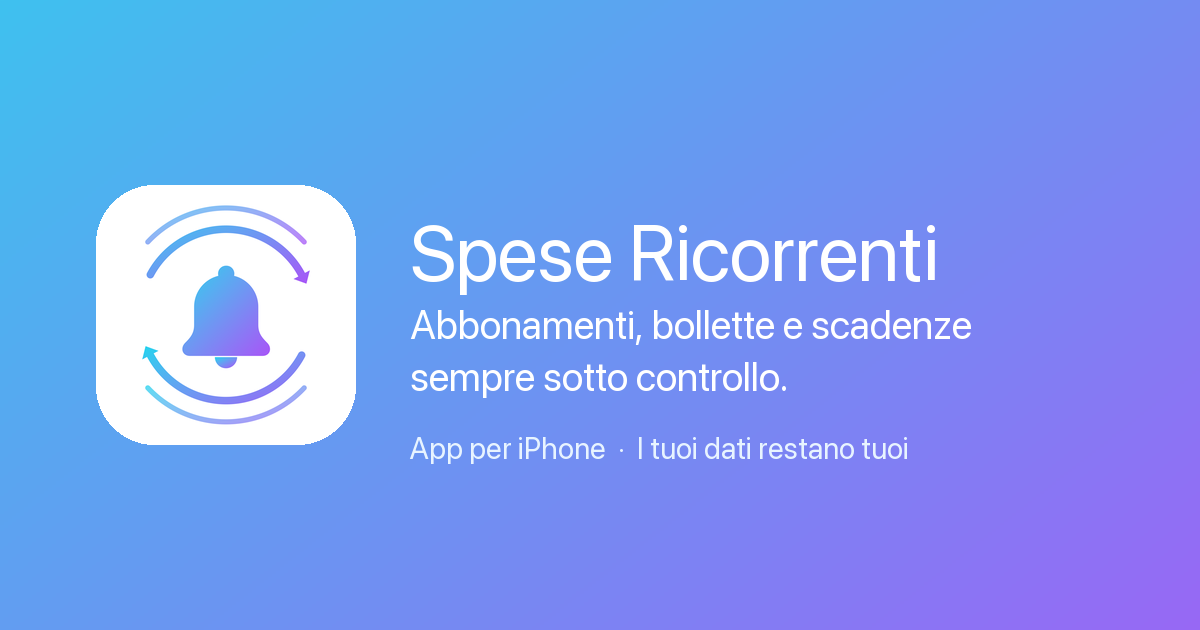
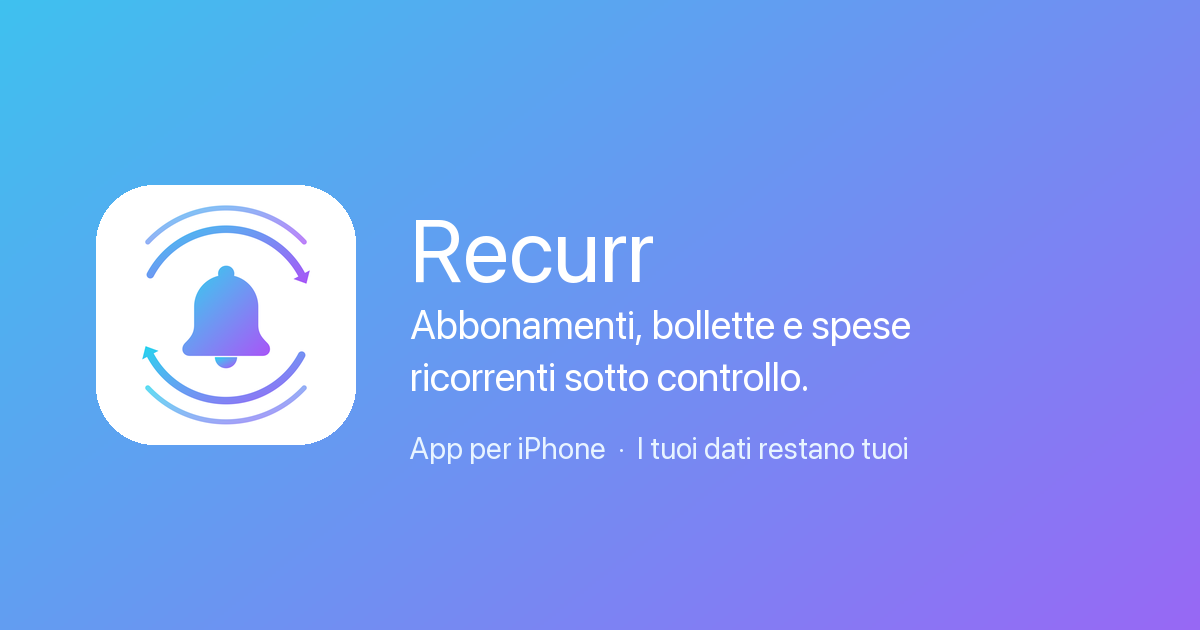
Rinomina l'app in Recurr e ripulisce la home del dominio
Rinominamento
- «Spese Ricorrenti» → «Recurr» come marchio su landing IT/EN, Privacy Policy,
  Termini, llms.txt e immagine social, rigenerata perché il nome era disegnato
  dentro il PNG
- La parola chiave minuscola «spese ricorrenti» resta dov'era: è ciò che la
  gente cerca davvero, mentre «Recurr» è un nome che nessuno digita finché non
  conosce l'app. I titoli ora contengono entrambi
- «Spese Ricorrenti» resta come alternateName nei dati strutturati, così chi
  cerca il vecchio nome trova comunque l'app
- llms.txt spiega il rinominamento e perché bundle id, container iCloud,
  entitlement RevenueCat e il percorso /spese-ricorrenti/ conservano il vecchio
  nome, così le AI non lo segnalano come incoerenza

Home del dominio
- Rimossa la card «Documenti legali», specifica di una singola app: privacy e
  termini restano raggiungibili dal footer della landing. La home torna a
  essere l'elenco delle app, pronta per le prossime

Changed region(s): [[0.3392, 0.3317, 0.8017, 0.4524], [0.3392, 0.573, 0.6783, 0.6333], [0.6783, 0.4825, 0.8325, 0.5429]]

diff --git a/spese-ricorrenti/index.html b/spese-ricorrenti/index.html
@@ -4,7 +4,7 @@
 <meta charset="utf-8">
 <meta name="viewport" content="width=device-width, initial-scale=1">
 
-<title>Spese Ricorrenti — App iPhone per abbonamenti, bollette e scadenze</title>
+<title>Recurr — App iPhone per spese ricorrenti, abbonamenti e bollette</title>
 <meta name="description" content="App iPhone per tenere sotto controllo abbonamenti, bollette, affitto e assicurazioni. Promemoria prima di ogni scadenza, totale del mese, report di risparmio. Gratis fino a 8 spese, senza account e senza pubblicità.">
 <link rel="canonical" href="https://dontknowif.github.io/spese-ricorrenti/">
 
@@ -17,19 +17,19 @@
 <meta name="robots" content="index, follow, max-image-preview:large, max-snippet:-1">
 
 <meta property="og:type" content="website">
-<meta property="og:site_name" content="Spese Ricorrenti">
+<meta property="og:site_name" content="Recurr">
 <meta property="og:locale" content="it_IT">
 <meta property="og:locale:alternate" content="en_GB">
-<meta property="og:title" content="Spese Ricorrenti — App iPhone per abbonamenti, bollette e scadenze">
+<meta property="og:title" content="Recurr — App iPhone per spese ricorrenti, abbonamenti e bollette">
 <meta property="og:description" content="Tieni sotto controllo abbonamenti, bollette e spese ricorrenti. Promemoria prima di ogni scadenza e report di risparmio. Gratis fino a 8 spese, senza account.">
 <meta property="og:url" content="https://dontknowif.github.io/spese-ricorrenti/">
 <meta property="og:image" content="https://dontknowif.github.io/spese-ricorrenti/og-image.png">
 <meta property="og:image:width" content="1200">
 <meta property="og:image:height" content="630">
-<meta property="og:image:alt" content="Icona dell'app Spese Ricorrenti accanto al nome e alla frase: abbonamenti, bollette e scadenze sempre sotto controllo.">
+<meta property="og:image:alt" content="Icona dell'app Recurr accanto al nome e alla frase: abbonamenti, bollette e scadenze sempre sotto controllo.">
 
 <meta name="twitter:card" content="summary_large_image">
-<meta name="twitter:title" content="Spese Ricorrenti — App iPhone per abbonamenti e bollette">
+<meta name="twitter:title" content="Recurr — App iPhone per abbonamenti e bollette">
 <meta name="twitter:description" content="Promemoria prima di ogni scadenza, totale del mese e report di risparmio. Gratis fino a 8 spese, senza account.">
 <meta name="twitter:image" content="https://dontknowif.github.io/spese-ricorrenti/og-image.png">
 
@@ -46,8 +46,8 @@
     {
       "@type": "MobileApplication",
       "@id": "https://dontknowif.github.io/spese-ricorrenti/#app",
-      "name": "Spese Ricorrenti",
-      "alternateName": "Recurr",
+      "name": "Recurr",
+      "alternateName": "Spese Ricorrenti",
       "applicationCategory": "FinanceApplication",
       "applicationSubCategory": "Gestione spese ricorrenti e abbonamenti",
       "operatingSystem": "iOS 17.0 o successivo",
@@ -92,7 +92,7 @@
       "@type": "WebSite",
       "@id": "https://dontknowif.github.io/spese-ricorrenti/#website",
       "url": "https://dontknowif.github.io/spese-ricorrenti/",
-      "name": "Spese Ricorrenti",
+      "name": "Recurr",
       "inLanguage": "it",
       "publisher": { "@id": "https://dontknowif.github.io/#publisher" }
     },
@@ -103,7 +103,7 @@
       "mainEntity": [
         {
           "@type": "Question",
-          "name": "Che cos'è Spese Ricorrenti?",
+          "name": "Che cos'è Recurr?",
           "acceptedAnswer": {
             "@type": "Answer",
             "text": "È un'app per iPhone che tiene traccia delle spese che si ripetono nel tempo: abbonamenti, bollette, affitto, assicurazioni, tasse, rate. Inserisci una spesa una volta sola indicando ogni quanto si ripete, e l'app calcola da sola le scadenze future, il totale di ogni mese e ti avvisa prima di ogni pagamento."
@@ -122,7 +122,7 @@
           "name": "L'app si collega al mio conto bancario?",
           "acceptedAnswer": {
             "@type": "Answer",
-            "text": "No. Spese Ricorrenti non si collega a banche, carte o conti correnti, non effettua pagamenti e non disdice abbonamenti al posto tuo. È uno strumento di annotazione: sei tu a inserire le spese, e per questo non deve chiederti alcuna credenziale bancaria."
+            "text": "No. Recurr non si collega a banche, carte o conti correnti, non effettua pagamenti e non disdice abbonamenti al posto tuo. È uno strumento di annotazione: sei tu a inserire le spese, e per questo non deve chiederti alcuna credenziale bancaria."
           }
         },
         {
@@ -184,7 +184,7 @@
 
 <nav class="nav">
   <div class="nav-inner">
-    <a class="brand" href="./"><span class="dot"></span> Spese Ricorrenti</a>
+    <a class="brand" href="./"><span class="dot"></span> Recurr</a>
     <div class="nav-links">
       <a href="#funzioni">Funzioni</a>
       <a href="#risparmio">Risparmio</a>
@@ -208,7 +208,7 @@
       <p class="eyebrow">Le tue spese restano sul tuo iPhone</p>
       <h1>Abbonamenti e bollette,<br><span class="grad">sempre sotto controllo.</span></h1>
       <p class="hero-sub">
-        Inserisci una spesa una volta sola. Spese Ricorrenti calcola tutte le scadenze future,
+        Inserisci una spesa una volta sola. Recurr calcola tutte le scadenze future,
         ti dice quanto spendi ogni mese e ti avvisa <strong>prima</strong> che ti arrivi l'addebito.
       </p>
       <div class="hero-actions">
@@ -521,7 +521,7 @@
 
     <div class="faq">
       <details open>
-        <summary>Che cos'è Spese Ricorrenti?</summary>
+        <summary>Che cos'è Recurr?</summary>
         <p>È un'app per iPhone che tiene traccia delle spese che si ripetono nel tempo: abbonamenti, bollette, affitto, assicurazioni, tasse, rate. Inserisci una spesa una volta sola indicando ogni quanto si ripete, e l'app calcola da sola le scadenze future, il totale di ogni mese e ti avvisa prima di ogni pagamento.</p>
       </details>
 
@@ -532,7 +532,7 @@
 
       <details>
         <summary>L'app si collega al mio conto bancario?</summary>
-        <p>No. Spese Ricorrenti non si collega a banche, carte o conti correnti, non effettua pagamenti e non disdice abbonamenti al posto tuo. È uno strumento di annotazione: sei tu a inserire le spese, e per questo non deve chiederti alcuna credenziale bancaria.</p>
+        <p>No. Recurr non si collega a banche, carte o conti correnti, non effettua pagamenti e non disdice abbonamenti al posto tuo. È uno strumento di annotazione: sei tu a inserire le spese, e per questo non deve chiederti alcuna credenziale bancaria.</p>
       </details>
 
       <details>

diff --git a/spese-ricorrenti/en/index.html b/spese-ricorrenti/en/index.html
@@ -4,7 +4,7 @@
 <meta charset="utf-8">
 <meta name="viewport" content="width=device-width, initial-scale=1">
 
-<title>Spese Ricorrenti — iPhone app for subscriptions, bills and due dates</title>
+<title>Recurr — iPhone app for recurring expenses, subscriptions and bills</title>
 <meta name="description" content="iPhone app that keeps track of subscriptions, bills, rent and insurance. Reminders before every due date, monthly totals and a savings report. Free for up to 8 expenses, no account, no ads.">
 <link rel="canonical" href="https://dontknowif.github.io/spese-ricorrenti/en/">
 
@@ -17,19 +17,19 @@
 <meta name="robots" content="index, follow, max-image-preview:large, max-snippet:-1">
 
 <meta property="og:type" content="website">
-<meta property="og:site_name" content="Spese Ricorrenti">
+<meta property="og:site_name" content="Recurr">
 <meta property="og:locale" content="en_GB">
 <meta property="og:locale:alternate" content="it_IT">
-<meta property="og:title" content="Spese Ricorrenti — iPhone app for subscriptions, bills and due dates">
+<meta property="og:title" content="Recurr — iPhone app for recurring expenses, subscriptions and bills">
 <meta property="og:description" content="Keep subscriptions, bills and recurring expenses under control. Reminders before every due date and a savings report. Free for up to 8 expenses, no account.">
 <meta property="og:url" content="https://dontknowif.github.io/spese-ricorrenti/en/">
 <meta property="og:image" content="https://dontknowif.github.io/spese-ricorrenti/og-image.png">
 <meta property="og:image:width" content="1200">
 <meta property="og:image:height" content="630">
-<meta property="og:image:alt" content="The Spese Ricorrenti app icon next to the app name and the line: subscriptions, bills and due dates always under control.">
+<meta property="og:image:alt" content="The Recurr app icon next to the app name and the line: subscriptions, bills and due dates always under control.">
 
 <meta name="twitter:card" content="summary_large_image">
-<meta name="twitter:title" content="Spese Ricorrenti — iPhone app for subscriptions and bills">
+<meta name="twitter:title" content="Recurr — iPhone app for subscriptions and bills">
 <meta name="twitter:description" content="Reminders before every due date, monthly totals and a savings report. Free for up to 8 expenses, no account.">
 <meta name="twitter:image" content="https://dontknowif.github.io/spese-ricorrenti/og-image.png">
 
@@ -46,8 +46,8 @@
     {
       "@type": "MobileApplication",
       "@id": "https://dontknowif.github.io/spese-ricorrenti/#app",
-      "name": "Spese Ricorrenti",
-      "alternateName": "Recurr",
+      "name": "Recurr",
+      "alternateName": "Spese Ricorrenti",
       "applicationCategory": "FinanceApplication",
       "applicationSubCategory": "Recurring expense and subscription tracker",
       "operatingSystem": "iOS 17.0 or later",
@@ -92,7 +92,7 @@
       "@type": "WebSite",
       "@id": "https://dontknowif.github.io/spese-ricorrenti/en/#website",
       "url": "https://dontknowif.github.io/spese-ricorrenti/en/",
-      "name": "Spese Ricorrenti",
+      "name": "Recurr",
       "inLanguage": "en",
       "publisher": { "@id": "https://dontknowif.github.io/#publisher" }
     },
@@ -103,7 +103,7 @@
       "mainEntity": [
         {
           "@type": "Question",
-          "name": "What is Spese Ricorrenti?",
+          "name": "What is Recurr?",
           "acceptedAnswer": {
             "@type": "Answer",
             "text": "It is an iPhone app that keeps track of expenses that repeat over time: subscriptions, bills, rent, insurance, taxes and instalments. You enter an expense once, stating how often it repeats, and the app works out all future due dates, the total for each month, and warns you before every payment."
@@ -122,7 +122,7 @@
           "name": "Does the app connect to my bank account?",
           "acceptedAnswer": {
             "@type": "Answer",
-            "text": "No. Spese Ricorrenti does not connect to banks, cards or current accounts, does not make payments and does not cancel subscriptions on your behalf. It is a note-keeping tool: you enter the expenses yourself, which is why it never needs to ask for banking credentials."
+            "text": "No. Recurr does not connect to banks, cards or current accounts, does not make payments and does not cancel subscriptions on your behalf. It is a note-keeping tool: you enter the expenses yourself, which is why it never needs to ask for banking credentials."
           }
         },
         {
@@ -184,7 +184,7 @@
 
 <nav class="nav">
   <div class="nav-inner">
-    <a class="brand" href="./"><span class="dot"></span> Spese Ricorrenti</a>
+    <a class="brand" href="./"><span class="dot"></span> Recurr</a>
     <div class="nav-links">
       <a href="#features">Features</a>
       <a href="#savings">Savings</a>
@@ -208,7 +208,7 @@
       <p class="eyebrow">Your expenses stay on your iPhone</p>
       <h1>Subscriptions and bills,<br><span class="grad">finally under control.</span></h1>
       <p class="hero-sub">
-        Enter an expense once. Spese Ricorrenti works out every future due date,
+        Enter an expense once. Recurr works out every future due date,
         tells you what you spend each month, and warns you <strong>before</strong> the charge lands.
       </p>
       <div class="hero-actions">
@@ -521,7 +521,7 @@
 
     <div class="faq">
       <details open>
-        <summary>What is Spese Ricorrenti?</summary>
+        <summary>What is Recurr?</summary>
         <p>It is an iPhone app that keeps track of expenses that repeat over time: subscriptions, bills, rent, insurance, taxes and instalments. You enter an expense once, stating how often it repeats, and the app works out all future due dates, the total for each month, and warns you before every payment.</p>
       </details>
 
@@ -532,7 +532,7 @@
 
       <details>
         <summary>Does the app connect to my bank account?</summary>
-        <p>No. Spese Ricorrenti does not connect to banks, cards or current accounts, does not make payments and does not cancel subscriptions on your behalf. It is a note-keeping tool: you enter the expenses yourself, which is why it never needs to ask for banking credentials.</p>
+        <p>No. Recurr does not connect to banks, cards or current accounts, does not make payments and does not cancel subscriptions on your behalf. It is a note-keeping tool: you enter the expenses yourself, which is why it never needs to ask for banking credentials.</p>
       </details>
 
       <details>

diff --git a/spese-ricorrenti/terms.html b/spese-ricorrenti/terms.html
@@ -3,14 +3,14 @@
 <head>
 <meta charset="utf-8">
 <meta name="viewport" content="width=device-width, initial-scale=1">
-<title>Termini e condizioni — Spese Ricorrenti</title>
+<title>Termini e condizioni — Recurr</title>
 <link rel="stylesheet" href="style.css">
 </head>
 <body>
 <div class="wrap">
 
 <header class="top">
-  <a class="brand" href="index.html"><span class="dot"></span> Spese Ricorrenti</a>
+  <a class="brand" href="index.html"><span class="dot"></span> Recurr</a>
   <div class="langs">
     <button type="button" data-set-lang="it" aria-pressed="true">Italiano</button>
     <button type="button" data-set-lang="en" aria-pressed="false">English</button>
@@ -21,7 +21,7 @@
 <div data-lang="it">
 
 <h1>Termini e condizioni d'uso</h1>
-<p class="lede">Le regole per l'utilizzo dell'app <strong>Spese Ricorrenti</strong>.</p>
+<p class="lede">Le regole per l'utilizzo dell'app <strong>Recurr</strong>.</p>
 <p class="updated">Ultimo aggiornamento: 27 agosto 2026 · Versione app: 1.0</p>
 
 <div class="card tldr">
@@ -36,7 +36,7 @@
 
 <h2>1. Accettazione</h2>
 <p>
-  Scaricando e usando Spese Ricorrenti (l'"app") accetti questi termini. Se non li accetti, non usare l'app.
+  Scaricando e usando Recurr (l'"app") accetti questi termini. Se non li accetti, non usare l'app.
   L'app è sviluppata e distribuita da <strong>Rocco Barletta</strong> (di seguito "noi").
 </p>
 
@@ -97,7 +97,7 @@
 
 <h2>5. Natura dell'app: nessuna consulenza finanziaria</h2>
 <p>
-  Spese Ricorrenti è uno strumento per <strong>annotare manualmente</strong> spese ricorrenti e visualizzarne
+  Recurr è uno strumento per <strong>annotare manualmente</strong> spese ricorrenti e visualizzarne
   l'andamento. Non è un servizio di pagamento, non è collegato ai tuoi conti bancari o alle tue carte, non
   effettua pagamenti e non disdice abbonamenti al posto tuo.
 </p>
@@ -195,7 +195,7 @@
 <div data-lang="en">
 
 <h1>Terms &amp; Conditions</h1>
-<p class="lede">The rules for using the <strong>Spese Ricorrenti</strong> app.</p>
+<p class="lede">The rules for using the <strong>Recurr</strong> app.</p>
 <p class="updated">Last updated: 27 August 2026 · App version: 1.0</p>
 
 <div class="card tldr">
@@ -210,7 +210,7 @@
 
 <h2>1. Acceptance</h2>
 <p>
-  By downloading and using Spese Ricorrenti (the "app") you accept these terms. If you do not accept them,
+  By downloading and using Recurr (the "app") you accept these terms. If you do not accept them,
   do not use the app. The app is developed and distributed by <strong>Rocco Barletta</strong> ("we", "us").
 </p>
 
@@ -269,7 +269,7 @@
 
 <h2>5. Nature of the app: not financial advice</h2>
 <p>
-  Spese Ricorrenti is a tool for <strong>manually recording</strong> recurring expenses and viewing their
+  Recurr is a tool for <strong>manually recording</strong> recurring expenses and viewing their
   trend. It is not a payment service, it is not connected to your bank accounts or cards, it makes no
   payments and does not cancel subscriptions on your behalf.
 </p>

diff --git a/index.html b/index.html
@@ -5,7 +5,7 @@
 <meta name="viewport" content="width=device-width, initial-scale=1">
 
 <title>dontknowif — app per iPhone</title>
-<meta name="description" content="App per iPhone sviluppate da dontknowif. Spese Ricorrenti tiene traccia di abbonamenti, bollette e scadenze mantenendo i dati sul dispositivo dell'utente.">
+<meta name="description" content="App per iPhone sviluppate da dontknowif, costruite per fare bene una cosa sola senza raccogliere più dati del necessario.">
 <link rel="canonical" href="https://dontknowif.github.io/">
 <meta name="robots" content="index, follow, max-image-preview:large">
 <meta name="theme-color" content="#5ba8f1">
@@ -18,7 +18,7 @@
 
 <meta property="og:type" content="website">
 <meta property="og:title" content="dontknowif — app per iPhone">
-<meta property="og:description" content="App per iPhone sviluppate da dontknowif, a partire da Spese Ricorrenti: abbonamenti, bollette e scadenze sempre sotto controllo.">
+<meta property="og:description" content="App per iPhone sviluppate da dontknowif.">
 <meta property="og:url" content="https://dontknowif.github.io/">
 <meta property="og:image" content="https://dontknowif.github.io/spese-ricorrenti/og-image.png">
 
@@ -52,17 +52,9 @@
 
 <div class="nav-cards">
   <a href="spese-ricorrenti/">
-    <strong>Spese Ricorrenti</strong>
-    <span>Abbonamenti, bollette e scadenze sempre sotto controllo. Promemoria prima di ogni addebito e report di risparmio, con i dati che restano sul tuo iPhone.</span>
+    <strong>Recurr</strong>
+    <span>Abbonamenti, bollette e spese ricorrenti sempre sotto controllo. Promemoria prima di ogni addebito e report di risparmio, con i dati che restano sul tuo iPhone.</span>
   </a>
-</div>
-
-<div class="card">
-  <h3>Documenti legali</h3>
-  <p style="margin:0">
-    <a href="spese-ricorrenti/privacy.html">Privacy Policy</a> e
-    <a href="spese-ricorrenti/terms.html">Termini e condizioni</a> di Spese Ricorrenti.
-  </p>
 </div>
 
 <div class="card">

diff --git a/spese-ricorrenti/privacy.html b/spese-ricorrenti/privacy.html
@@ -3,14 +3,14 @@
 <head>
 <meta charset="utf-8">
 <meta name="viewport" content="width=device-width, initial-scale=1">
-<title>Privacy Policy — Spese Ricorrenti</title>
+<title>Privacy Policy — Recurr</title>
 <link rel="stylesheet" href="style.css">
 </head>
 <body>
 <div class="wrap">
 
 <header class="top">
-  <a class="brand" href="index.html"><span class="dot"></span> Spese Ricorrenti</a>
+  <a class="brand" href="index.html"><span class="dot"></span> Recurr</a>
   <div class="langs">
     <button type="button" data-set-lang="it" aria-pressed="true">Italiano</button>
     <button type="button" data-set-lang="en" aria-pressed="false">English</button>
@@ -21,7 +21,7 @@
 <div data-lang="it">
 
 <h1>Privacy Policy</h1>
-<p class="lede">Come l'app <strong>Spese Ricorrenti</strong> tratta i tuoi dati.</p>
+<p class="lede">Come l'app <strong>Recurr</strong> tratta i tuoi dati.</p>
 <p class="updated">Ultimo aggiornamento: 27 agosto 2026 · Versione app: 1.0</p>
 
 <div class="card tldr">
@@ -308,7 +308,7 @@
 <div data-lang="en">
 
 <h1>Privacy Policy</h1>
-<p class="lede">How the <strong>Spese Ricorrenti</strong> app handles your data.</p>
+<p class="lede">How the <strong>Recurr</strong> app handles your data.</p>
 <p class="updated">Last updated: 27 August 2026 · App version: 1.0</p>
 
 <div class="card tldr">
